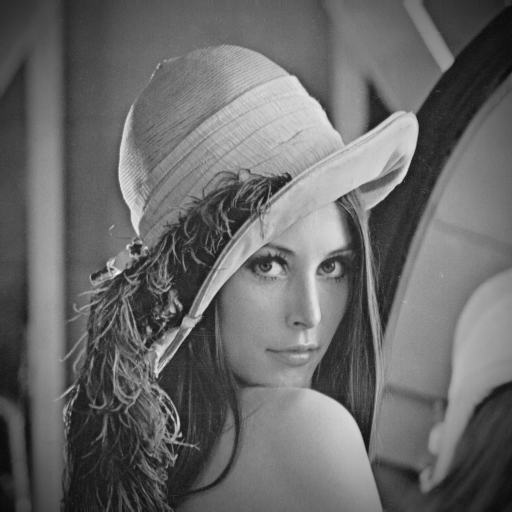
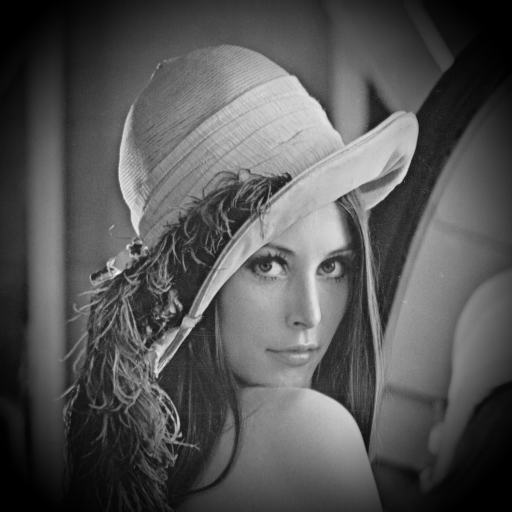
new methods

diff --git a/lib/mip.dart b/lib/mip.dart
@@ -1,6 +1,7 @@
 import 'dart:io';
 import 'dart:isolate';
 import 'package:image/image.dart' as img;
+import 'package:multithreading_image_processor/functions.dart';
 
 class Mip {
   List<String> words;
@@ -28,14 +29,13 @@ class Mip {
   void imageProcessor(Map<String, dynamic> args) async {
     // Obtém a imagem enviada pelo processo principal.
     final image = args['image'] as img.Image;
-    // Cria uma nova imagem com o filtro preto e branco aplicado.
     bool shouldApplyBlackAndWhite =
         words.contains('p&b') && words.every((e) => e != 'inverted');
     bool shouldApplyInvertedColor =
         words.contains('inverted') && words.every((e) => e != 'p&b');
     bool shouldApplyVignette =
         words.contains('with') && words.contains('vignette');
-
+    bool shouldApplyBillboard = words.contains('billboard');
     img.Image processedImage;
 
     if (shouldApplyBlackAndWhite && shouldApplyInvertedColor) {
@@ -47,34 +47,17 @@ class Mip {
     } else {
       processedImage = image;
     }
-
+    if (shouldApplyBillboard) {
+      processedImage = applyBillboard(image);
+    }
     if (shouldApplyVignette) {
-      processedImage = applyVignette(processedImage);
+      stdout.write("Vignette value:  ");
+      double? read = double.parse(stdin.readLineSync()!);
+      processedImage = applyVignette(processedImage, read);
     }
 
     // Envia a imagem processada de volta para o processo principal.
     final sendPort = args['sendPort'] as SendPort;
     sendPort.send(processedImage);
-  }
-
-  img.Image applyBlackAndWhite(img.Image image) {
-    // Converte a imagem para preto e branco.
-    final grayscale = img.grayscale(image);
-    // Retorna a imagem resultante.
-    return grayscale;
-  }
-
-  img.Image applyInvertedColor(img.Image image) {
-    // Converte a imagem para preto e branco.
-    final invert = img.invert(image);
-    // Retorna a imagem resultante.
-    return invert;
-  }
-
-  img.Image applyVignette(img.Image image) {
-    // Converte a imagem para preto e branco.
-    final invert = img.vignette(image);
-    // Retorna a imagem resultante.
-    return invert;
   }
 }

diff --git a/lib/functions.dart b/lib/functions.dart
@@ -1,3 +1,4 @@
+import 'package:image/image.dart' as img;
 import 'package:multithreading_image_processor/mip.dart';
 
 List<String> splitWords(String words) {
@@ -7,4 +8,36 @@ List<String> splitWords(String words) {
     mip.mip();
   }
   return result;
+}
+
+img.Image applyBlackAndWhite(img.Image image) {
+  // Converte a imagem para preto e branco.
+  final grayscale = img.grayscale(image);
+  // Retorna a imagem resultante.
+  return grayscale;
+}
+
+img.Image applyInvertedColor(img.Image image) {
+  // Converte a imagem para preto e branco.
+  final invert = img.invert(image);
+  // Retorna a imagem resultante.
+  return invert;
+}
+
+img.Image applyVignette(img.Image image, double? amount) {
+  // Converte a imagem para preto e branco.
+  final vignette = img.vignette(image);
+  if (amount != null) {
+    final vignetteAmount = img.vignette(vignette, amount: amount);
+    return vignetteAmount;
+  }
+  // Retorna a imagem resultante.
+  return vignette;
+}
+
+img.Image applyBillboard(img.Image image) {
+  // Converte a imagem para preto e branco.
+  final invert = img.billboard(image);
+  // Retorna a imagem resultante.
+  return invert;
 }
